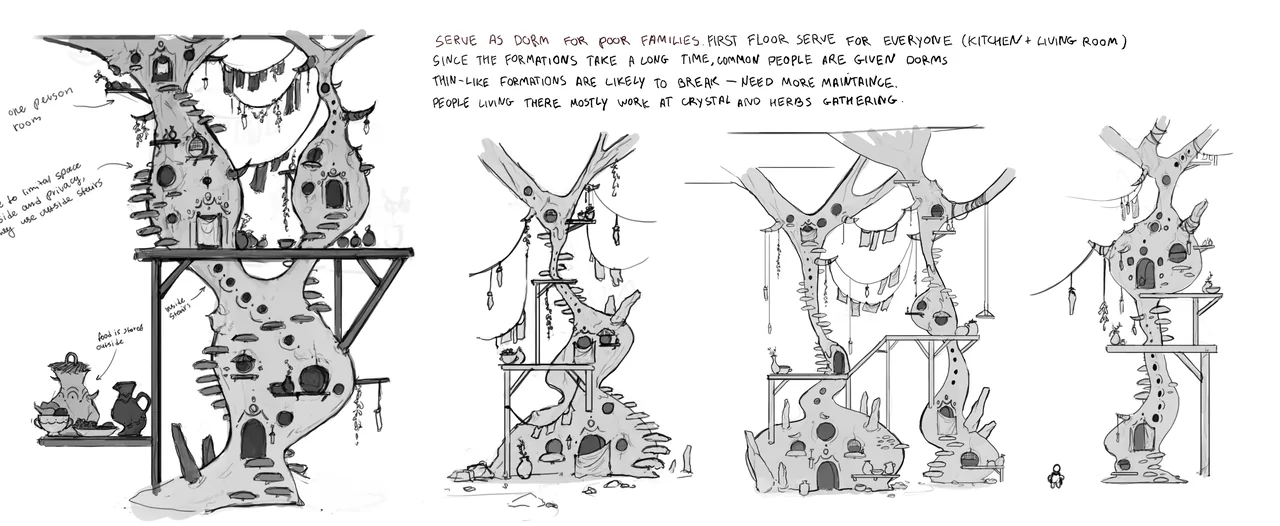
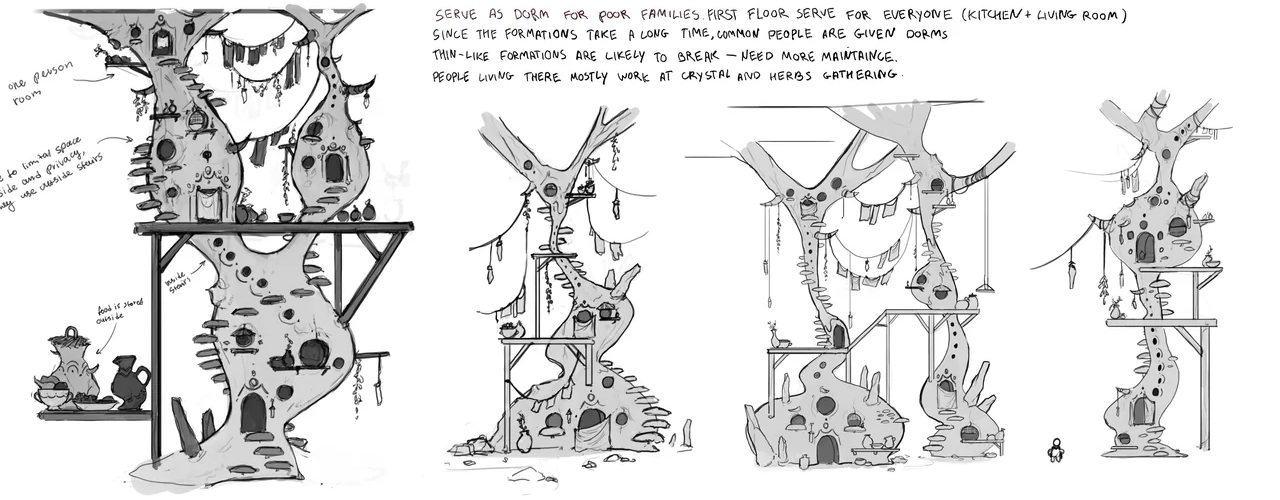
small changes, cave sketches change

Changed region(s): [[0.3438, 0.0, 0.875, 0.99], [0.0, 0.0, 0.3438, 0.99], [0.8125, 0.18, 0.9688, 0.93]]

diff --git a/styles.css b/styles.css
@@ -466,6 +466,7 @@ mark {
   color: var(--red);
   font-size: clamp(33px, 3.82vw, 73px);
   line-height: 1.18;
+  padding-left: 4.16%;
 }
 
 .game-layout {
@@ -476,12 +477,8 @@ mark {
 }
 
 .red-action {
-  padding: min(.94vw, 18px) min(1.56vw, 30px);
+  padding: 20px min(1.56vw, 30px);
   font-size: clamp(19px, 2.08vw, 40px);
-}
-
-.game-aside > .red-action {
-  margin-left: calc(-1 * min(4.16vw, 80px));
 }
 
 .game-small-images,
@@ -492,8 +489,8 @@ mark {
 
 .game-hand {
   position: absolute;
-  z-index: 3;
-  top: 3.5vw;
+  z-index: 0;
+  top: 100px;
   left: 5%;
   width: 9.32%;
   transform: rotate(25.82deg);
@@ -825,7 +822,8 @@ mark {
   }
 
   .project-title {
-    margin-inline: 5%;
+    padding: 0 5%;
+    
   }
 
   .red-action {
@@ -1043,7 +1041,8 @@ mark {
   }
 
   .section-switcher {
-    padding: 0 5%;
+    display:flex;
+    gap: 0;
   }
 
   .section-switcher a {
